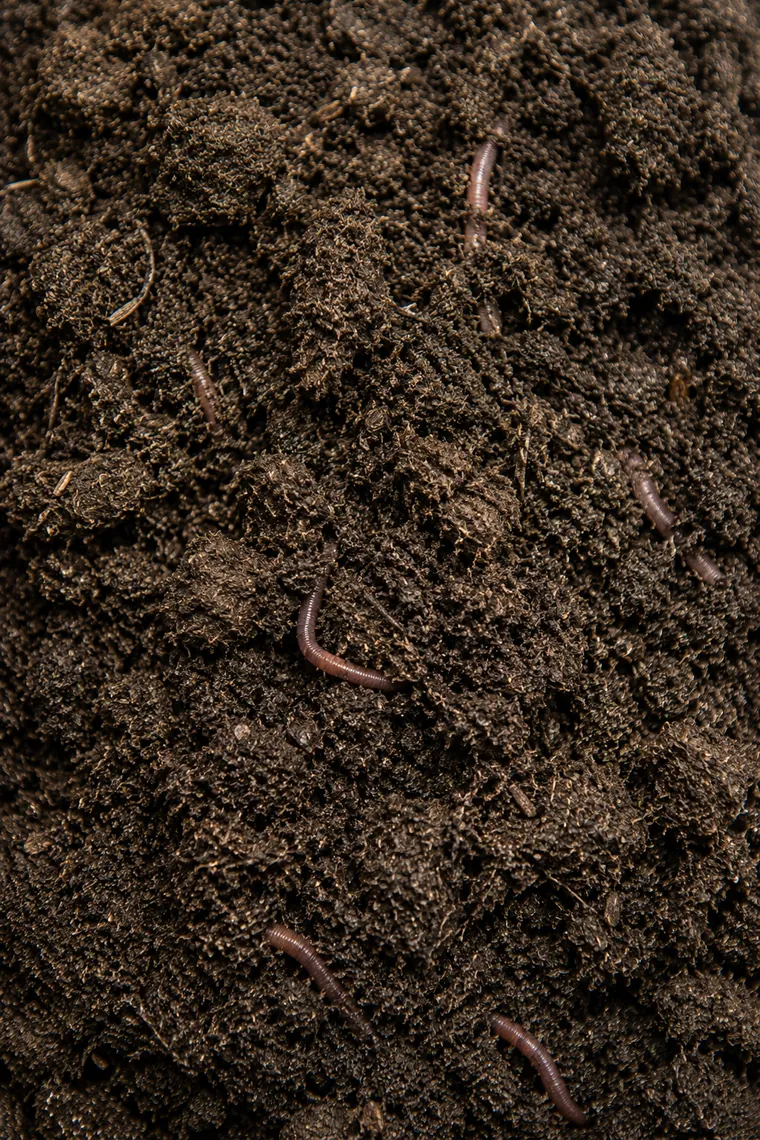
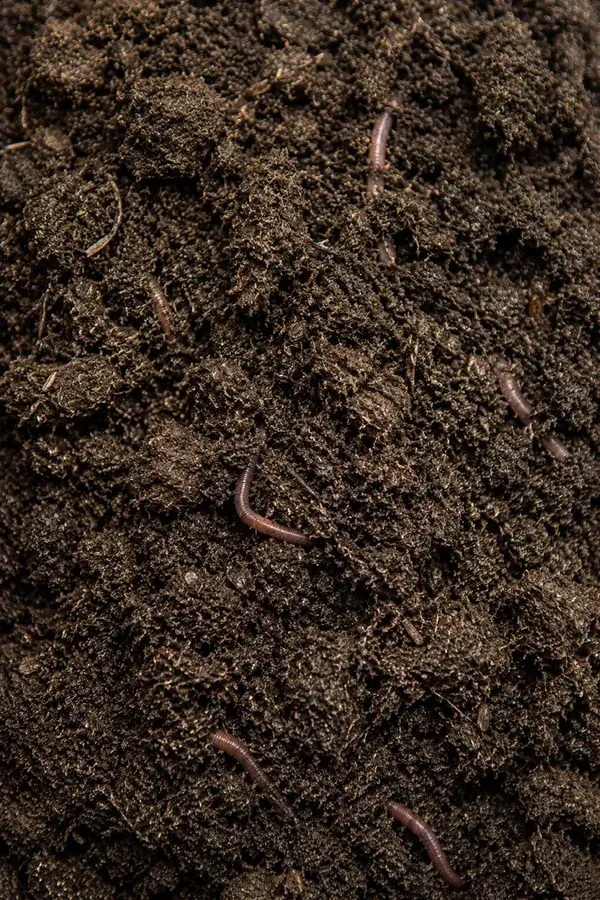
perf: optimiza imagenes -38% (2.7MB → 1.66MB)
- componentes (8 imgs): resize 760x1140 → 600x900, quality 75. de 1.75MB → 1.04MB
- plantas (5 imgs): resize 760x950 → 480x600, quality 78. de 270KB → 116KB
- bolsa-producto: recompresion. 135KB → 131KB
- cache-busting ?v=2 en todas las webp para forzar re-descarga en visitantes recurrentes
- misma calidad visual, mucho menor peso

Claude-Session: https://claude.ai/code/session_01MDKbaUcdJFMfnR5oHG2nkL

Changed region(s): [[0.15, 0.2489, 0.18, 0.28]]

diff --git a/index.html b/index.html
@@ -315,7 +315,7 @@
         <div class="planta-card">
           <div class="planta-img-wrap">
             <div class="planta-fallback pf-1"></div>
-            <img src="images/philodendron.webp" alt="Philodendron" loading="lazy" decoding="async" onerror="this.style.display='none'">
+            <img src="images/philodendron.webp?v=2" alt="Philodendron" loading="lazy" decoding="async" onerror="this.style.display='none'">
           </div>
           <h4>Philodendron</h4>
           <p>Trepadoras que agradecen aireación y drenaje rápido.</p>
@@ -323,7 +323,7 @@
         <div class="planta-card">
           <div class="planta-img-wrap">
             <div class="planta-fallback pf-2"></div>
-            <img src="images/monstera.webp" alt="Monstera" loading="lazy" decoding="async" onerror="this.style.display='none'">
+            <img src="images/monstera.webp?v=2" alt="Monstera" loading="lazy" decoding="async" onerror="this.style.display='none'">
           </div>
           <h4>Monstera</h4>
           <p>Raíces gruesas que necesitan oxígeno constante.</p>
@@ -331,7 +331,7 @@
         <div class="planta-card">
           <div class="planta-img-wrap">
             <div class="planta-fallback pf-3"></div>
-            <img src="images/alocasia.webp" alt="Alocasia" loading="lazy" decoding="async" onerror="this.style.display='none'">
+            <img src="images/alocasia.webp?v=2" alt="Alocasia" loading="lazy" decoding="async" onerror="this.style.display='none'">
           </div>
           <h4>Alocasia</h4>
           <p>Exigente con la humedad, sin encharcar.</p>
@@ -339,7 +339,7 @@
         <div class="planta-card">
           <div class="planta-img-wrap">
             <div class="planta-fallback pf-4"></div>
-            <img src="images/anthurium.webp" alt="Anthurium" loading="lazy" decoding="async" onerror="this.style.display='none'">
+            <img src="images/anthurium.webp?v=2" alt="Anthurium" loading="lazy" decoding="async" onerror="this.style.display='none'">
           </div>
           <h4>Anthurium</h4>
           <p>Raíces sensibles al exceso de riego.</p>
@@ -347,7 +347,7 @@
         <div class="planta-card">
           <div class="planta-img-wrap">
             <div class="planta-fallback pf-5"></div>
-            <img src="images/syngonium.webp" alt="Syngonium" loading="lazy" decoding="async" onerror="this.style.display='none'">
+            <img src="images/syngonium.webp?v=2" alt="Syngonium" loading="lazy" decoding="async" onerror="this.style.display='none'">
           </div>
           <h4>Syngonium</h4>
           <p>Crecimiento rápido con nutrientes equilibrados.</p>
@@ -381,7 +381,7 @@
           <div class="comp-card" data-tilt>
             <div class="comp-img-wrap">
               <div class="comp-fallback cf-1"></div>
-              <img src="images/corteza-pino.webp" alt="Corteza de Pino" loading="lazy" decoding="async" onerror="this.style.display='none'">
+              <img src="images/corteza-pino.webp?v=2" alt="Corteza de Pino" loading="lazy" decoding="async" onerror="this.style.display='none'">
               <span class="comp-num">01</span>
             </div>
             <div class="comp-info">
@@ -392,7 +392,7 @@
           <div class="comp-card" data-tilt>
             <div class="comp-img-wrap">
               <div class="comp-fallback cf-2"></div>
-              <img src="images/musgo-sphagnum.webp" alt="Musgo Sphagnum" loading="lazy" decoding="async" onerror="this.style.display='none'">
+              <img src="images/musgo-sphagnum.webp?v=2" alt="Musgo Sphagnum" loading="lazy" decoding="async" onerror="this.style.display='none'">
               <span class="comp-num">02</span>
             </div>
             <div class="comp-info">
@@ -403,7 +403,7 @@
           <div class="comp-card" data-tilt>
             <div class="comp-img-wrap">
               <div class="comp-fallback cf-3"></div>
-              <img src="images/vermiculita.webp" alt="Vermiculita" loading="lazy" decoding="async" onerror="this.style.display='none'">
+              <img src="images/vermiculita.webp?v=2" alt="Vermiculita" loading="lazy" decoding="async" onerror="this.style.display='none'">
               <span class="comp-num">03</span>
             </div>
             <div class="comp-info">
@@ -414,7 +414,7 @@
           <div class="comp-card" data-tilt>
             <div class="comp-img-wrap">
               <div class="comp-fallback cf-4"></div>
-              <img src="images/perlita.webp" alt="Perlita" loading="lazy" decoding="async" onerror="this.style.display='none'">
+              <img src="images/perlita.webp?v=2" alt="Perlita" loading="lazy" decoding="async" onerror="this.style.display='none'">
               <span class="comp-num">04</span>
             </div>
             <div class="comp-info">
@@ -425,7 +425,7 @@
           <div class="comp-card" data-tilt>
             <div class="comp-img-wrap">
               <div class="comp-fallback cf-5"></div>
-              <img src="images/carbon-vegetal.webp" alt="Carbón Vegetal" loading="lazy" decoding="async" onerror="this.style.display='none'">
+              <img src="images/carbon-vegetal.webp?v=2" alt="Carbón Vegetal" loading="lazy" decoding="async" onerror="this.style.display='none'">
               <span class="comp-num">05</span>
             </div>
             <div class="comp-info">
@@ -436,7 +436,7 @@
           <div class="comp-card" data-tilt>
             <div class="comp-img-wrap">
               <div class="comp-fallback cf-6"></div>
-              <img src="images/piedra-pomez.webp" alt="Piedra Pómez" loading="lazy" decoding="async" onerror="this.style.display='none'">
+              <img src="images/piedra-pomez.webp?v=2" alt="Piedra Pómez" loading="lazy" decoding="async" onerror="this.style.display='none'">
               <span class="comp-num">06</span>
             </div>
             <div class="comp-info">
@@ -447,7 +447,7 @@
           <div class="comp-card" data-tilt>
             <div class="comp-img-wrap">
               <div class="comp-fallback cf-7"></div>
-              <img src="images/humus-lombriz.webp" alt="Humus de Lombriz" loading="lazy" decoding="async" onerror="this.style.display='none'">
+              <img src="images/humus-lombriz.webp?v=2" alt="Humus de Lombriz" loading="lazy" decoding="async" onerror="this.style.display='none'">
               <span class="comp-num">07</span>
             </div>
             <div class="comp-info">
@@ -458,7 +458,7 @@
           <div class="comp-card" data-tilt>
             <div class="comp-img-wrap">
               <div class="comp-fallback cf-8"></div>
-              <img src="images/turba-seleccionada.webp" alt="Turba Seleccionada" loading="lazy" decoding="async" onerror="this.style.display='none'">
+              <img src="images/turba-seleccionada.webp?v=2" alt="Turba Seleccionada" loading="lazy" decoding="async" onerror="this.style.display='none'">
               <span class="comp-num">08</span>
             </div>
             <div class="comp-info">
@@ -630,7 +630,7 @@
                 <em>20L</em>
               </div>
             </div>
-            <img src="images/bolsa-producto.webp" alt="Aroid Mix Premium de Entre Verde — Sustrato para Aráceas 20L" loading="lazy" decoding="async" onerror="this.style.display='none'">
+            <img src="images/bolsa-producto.webp?v=2" alt="Aroid Mix Premium de Entre Verde — Sustrato para Aráceas 20L" loading="lazy" decoding="async" onerror="this.style.display='none'">
           </div>
         </div>
       </div>
